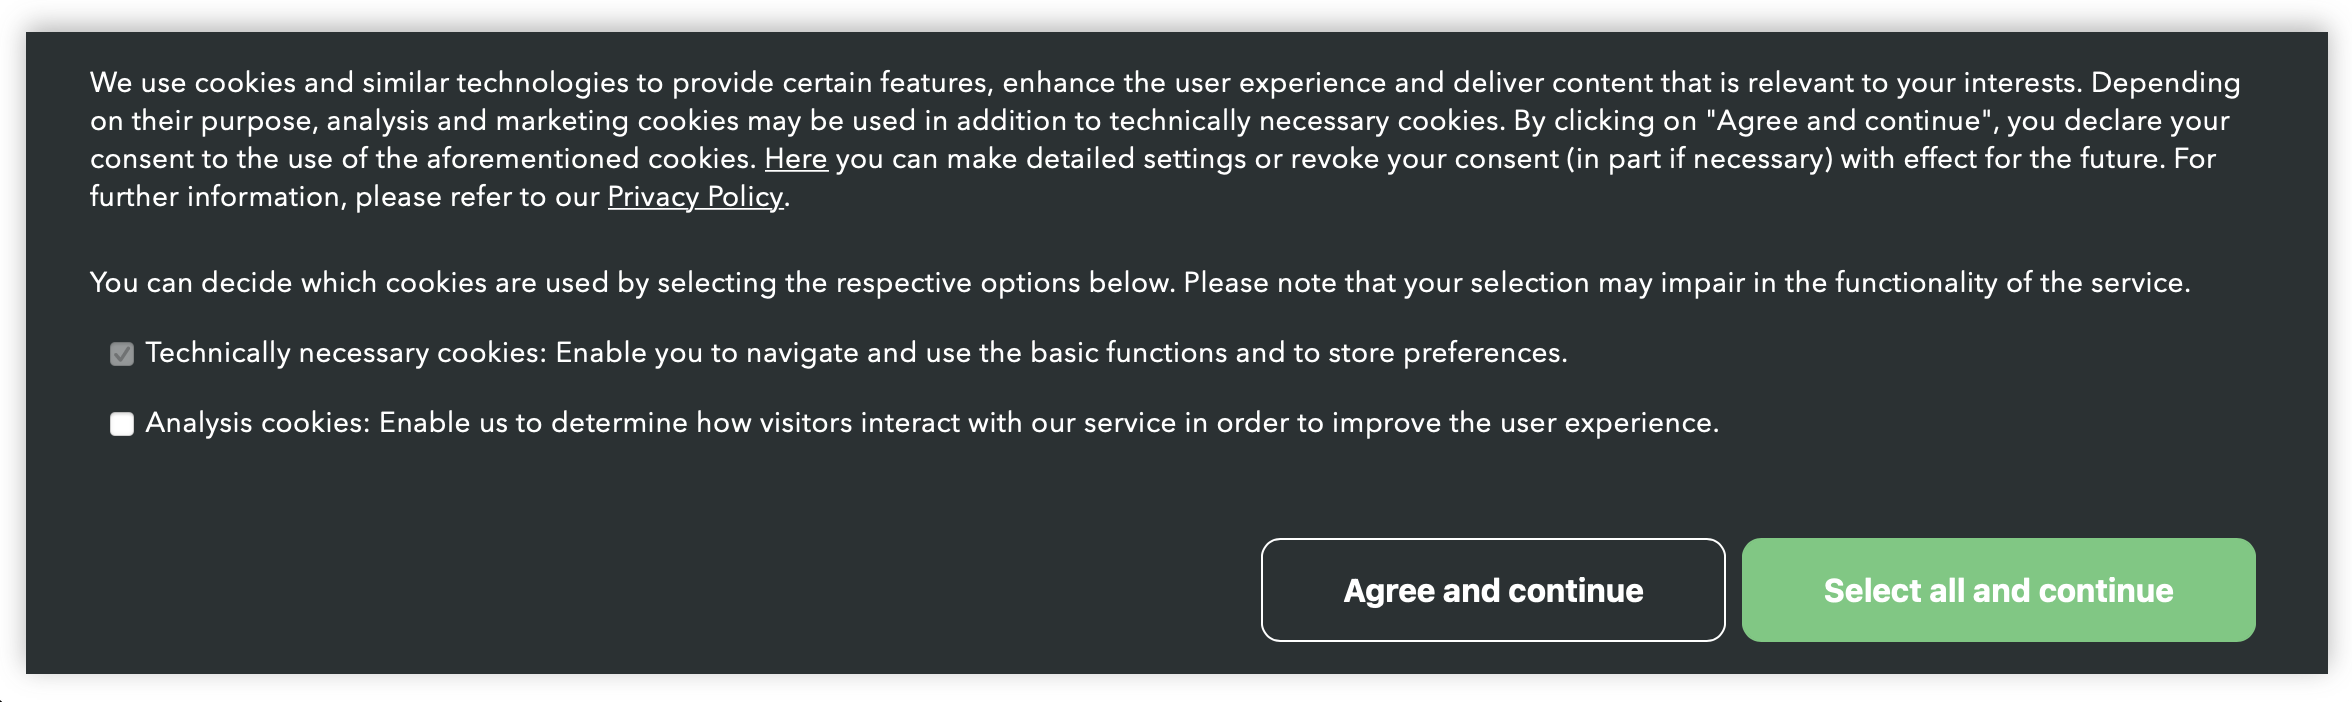
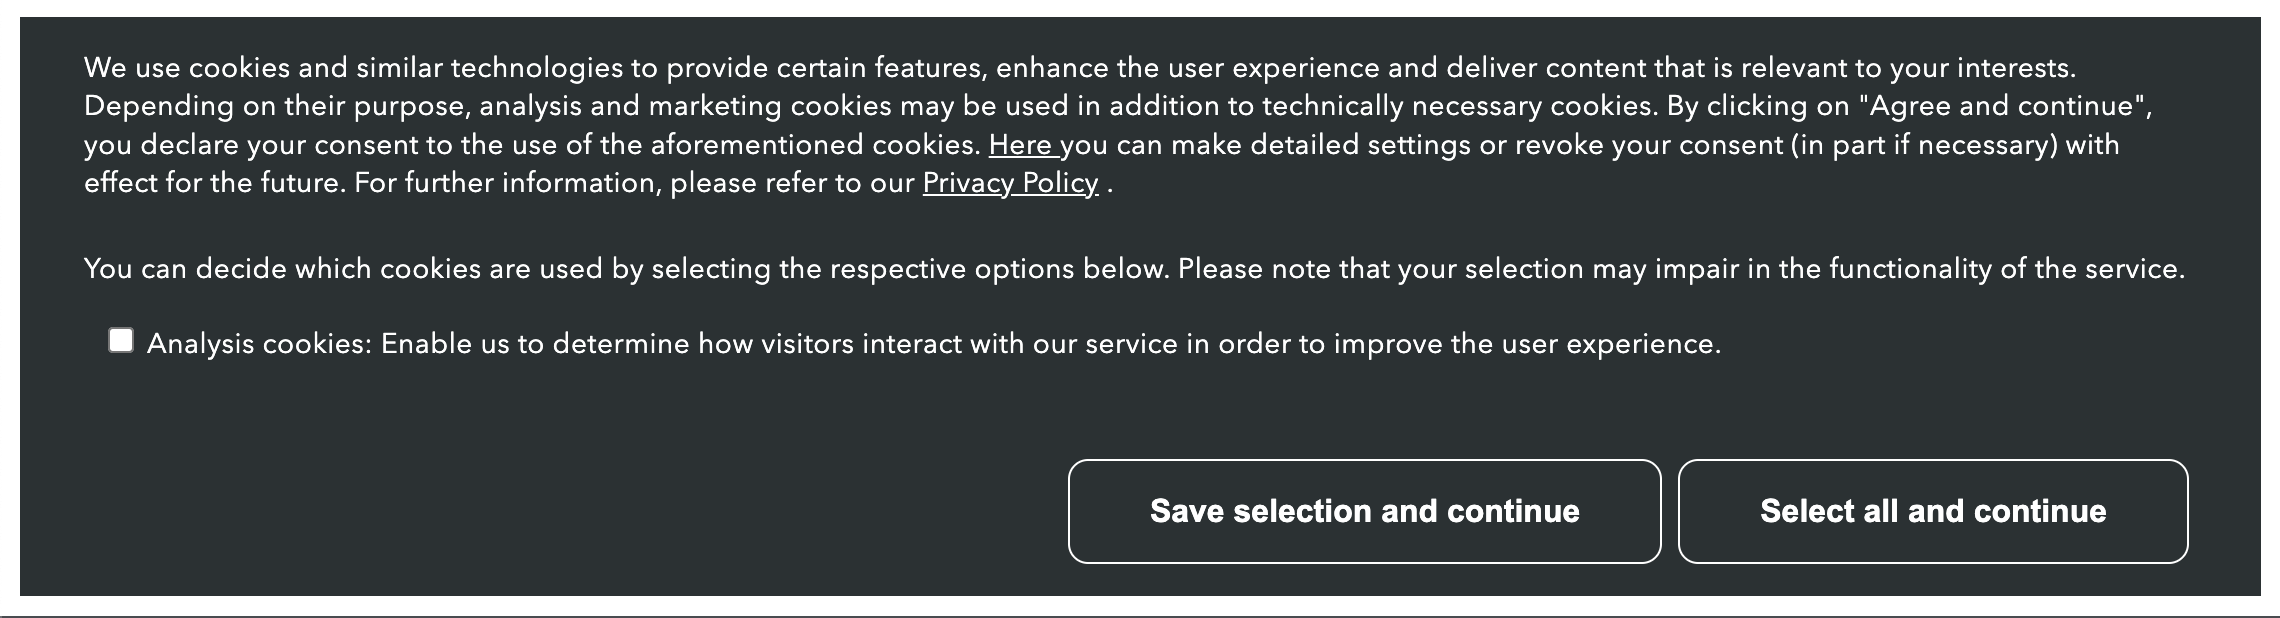
docs: remove dark pattern from example

diff --git a/packages/cookie-consent-banner/src/index.html b/packages/cookie-consent-banner/src/index.html
@@ -18,10 +18,9 @@
       }
       :root {
         --cookie-consent-banner-z-index-container: 1000;
-        --cookie-consent-banner-colors-primary: blue;
-        --cookie-consent-banner-colors-primary-border: var(
-          --cookie-consent-banner-colors-primary
-        );
+        --cookie-consent-banner-colors-primary: transparent;
+        --cookie-consent-banner-colors-primary-border: #fff;
+
         --cookie-consent-banner-colors-primary-content: #fff;
         --cookie-consent-banner-colors-text: #fff;
 
@@ -73,13 +72,6 @@
       );
       // // EXAMPLE Remove Marketing
       cookieConsentBannerElement.availableCategories = [
-        {
-          description:
-            "Enable you to navigate and use the basic functions and to store preferences.",
-          key: "technically_required",
-          label: "Technically necessary cookies",
-          isMandatory: true,
-        },
         {
           description:
             "Enable us to determine how visitors interact with our service in order to improve the user experience.",
